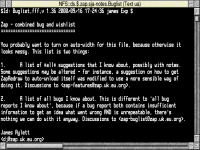
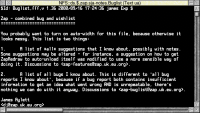
Various HTML tweaks to bring things more up to date. Two thumbnails resized.

diff --git a/www.zap.uk.eu.org/screenshots.html b/www.zap.uk.eu.org/screenshots.html
@@ -1,6 +1,6 @@
 <!DOCTYPE HTML PUBLIC "-//W3C//DTD HTML 4.0 Transitional//EN">
 <HTML>
-<!-- $Id: screenshots.html,v 1.3 2000-11-04 02:53:34 ds Exp $ -->
+<!-- $Id: screenshots.html,v 1.4 2000-11-06 02:17:57 ds Exp $ -->
 
 <HEAD>
  <TITLE>Zap - screenshots</TITLE>
@@ -36,7 +36,7 @@ Everybody likes seeing screenshots, but also everybody hates making them. Here's
   <TD><A HREF="img/sshots/screen1.png"><IMG WIDTH=200 HEIGHT=113 SRC="img/sshots/thumb/screen1.png"></A></TD>
   <TD><P>It's fairly easy to set up different options for different types of files. Colours, editing and display options can all be configured.</P></TD>
  </TR><TR>
-  <TD><A HREF="img/sshots/screen2.png"><IMG WIDTH=200 HEIGHT=150 SRC="img/sshots/thumb/screen2.png"></A></TD>
+  <TD><A HREF="img/sshots/screen2.png"><IMG WIDTH=200 HEIGHT=125 SRC="img/sshots/thumb/screen2.png"></A></TD>
   <TD><P>Syntax colouring for C source code. Lots of different languages have support, including C, C++, Java, ARM assembler and Acorn tokenised BASIC. This shot also shows Zap using RISC OS outline fonts instead of its own bitmap fonts.</P></TD>
  </TR><TR>
   <TD><A HREF="img/sshots/screen3.png"><IMG WIDTH=200 HEIGHT=150 SRC="img/sshots/thumb/screen3.png"></A></TD>
@@ -54,7 +54,7 @@ Everybody likes seeing screenshots, but also everybody hates making them. Here's
 
 <ADDRESS>
 <A HREF="/copyright.html">&copy; Copyright Zap Developers 2000. All rights reserved.</A>
-<BR>Updated: $Date: 2000-11-04 02:53:34 $. <A HREF="mailto:webmaster@zap.uk.eu.org">webmaster@zap.uk.eu.org</A>
+<BR>Updated: $Date: 2000-11-06 02:17:57 $. <A HREF="mailto:webmaster@zap.uk.eu.org">webmaster@zap.uk.eu.org</A>
 </ADDRESS>
 
 <MAP NAME="map">

diff --git a/www.zap.uk.eu.org/awards.html b/www.zap.uk.eu.org/awards.html
@@ -1,6 +1,6 @@
 <!DOCTYPE HTML PUBLIC "-//W3C//DTD HTML 4.0 Transitional//EN">
 <HTML>
-<!-- $Id: awards.html,v 1.4 2000-02-14 17:27:36 dj Exp $ -->
+<!-- $Id: awards.html,v 1.5 2000-11-06 02:17:57 ds Exp $ -->
 
 <HEAD>
  <TITLE>Zap awards!</TITLE>
@@ -36,7 +36,7 @@ remember.
           border=0 align=right></a> 
 <P>
 We appear to have be listed as a Cool Site in their <A
-HREF="http://dmoz.org/Computers/Operating_Systems/RISCOS/Software/Programming/">RISCOS
+HREF="http://dmoz.org/Computers/Operating_Systems/RISCOS/Software/Programming/">RISC OS
 programming
 section</A>. I don't really know what this means (other than the fact that we
 get a little star by the entry in the Open Directory); the entire thing
@@ -66,7 +66,7 @@ Zap came first in both the PD and Utilities categories, apparently.
 
 <ADDRESS>
 <A HREF="/copyright.html">&copy; Copyright Zap Developers 2000. All rights reserved.</A>
-<BR>Updated: $Date: 2000-02-14 17:27:36 $. <A HREF="mailto:webmaster@zap.uk.eu.org">webmaster@zap.uk.eu.org</A>
+<BR>Updated: $Date: 2000-11-06 02:17:57 $. <A HREF="mailto:webmaster@zap.uk.eu.org">webmaster@zap.uk.eu.org</A>
 </ADDRESS>
 
 <MAP NAME="map">
